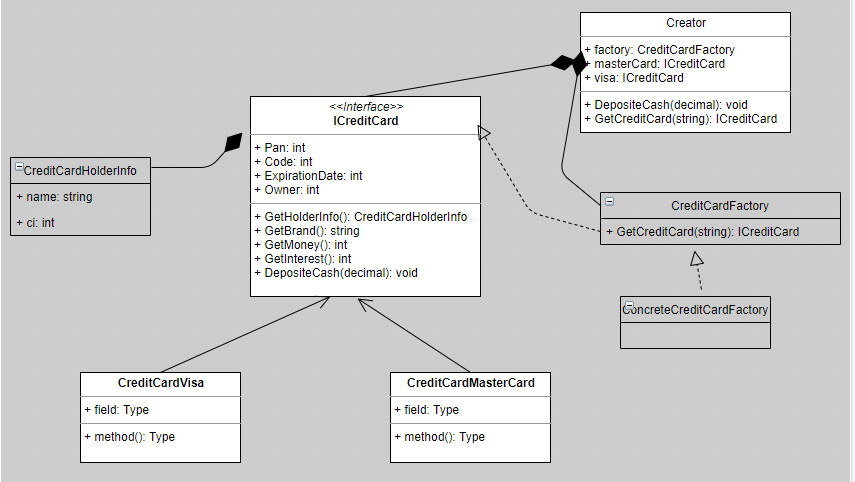
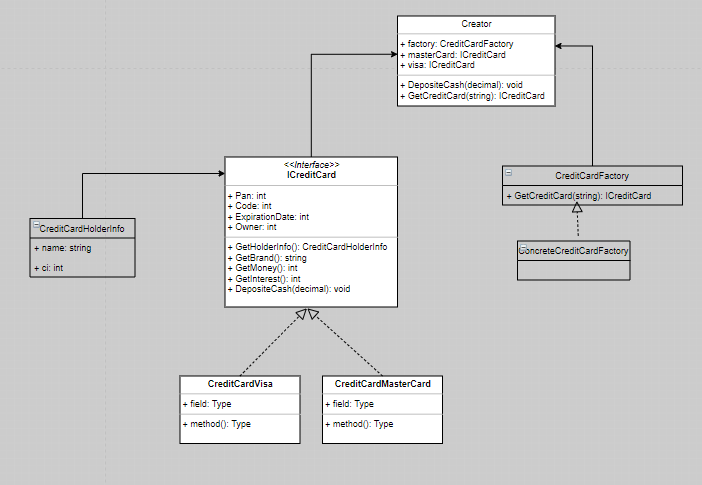
arreglo diagramas y enums

diff --git a/CreditCards/CreditCardMasterCard.cs b/CreditCards/CreditCardMasterCard.cs
@@ -1,6 +1,7 @@
 using System;
 using System.Collections.Generic;
 using System.Text;
+using static CreationalDessignPattern.CreditCards.ICreditCard;
 
 namespace CreationalDessignPattern.CreditCards
 {
@@ -10,7 +11,7 @@ namespace CreationalDessignPattern.CreditCards
         private int _pan;
         private int _code;
         private DateTime _expirationDate;
-        private const string brand = "Visa";
+        private Brand _brand = Brand.Mastercard;
         private decimal _actualMoney;
 
         public CreditCardMasterCard(decimal actualMoney = 0)
@@ -44,7 +45,7 @@ namespace CreationalDessignPattern.CreditCards
         }
         public string GetBrand()
         {
-            return $"The brand is {brand}, Thank You!.";
+            return $"The brand is {_brand}, Thank You!.";
         }
 
         public CreditCardHolderInfo GetHolderInfo()

diff --git a/CreditCards/CreditCardVisa.cs b/CreditCards/CreditCardVisa.cs
@@ -1,6 +1,7 @@
 using System;
 using System.Collections.Generic;
 using System.Text;
+using static CreationalDessignPattern.CreditCards.ICreditCard;
 
 namespace CreationalDessignPattern.CreditCards
 {
@@ -10,7 +11,7 @@ namespace CreationalDessignPattern.CreditCards
         private int _pan;
         private int _code;
         private DateTime _expirationDate;
-        private const string brand = "Master Card";
+        private  Brand _brand = Brand.Visa;
         private decimal _actualMoney;
 
         public CreditCardVisa(decimal actualMoney=0)
@@ -44,7 +45,7 @@ namespace CreationalDessignPattern.CreditCards
         }
         public string GetBrand()
         {
-            return $"The brand of this card is {brand}.";
+            return $"The brand of this card is {_brand}.";
         }
 
         public CreditCardHolderInfo GetHolderInfo()

diff --git a/CreditCards/ICreditCard.cs b/CreditCards/ICreditCard.cs
@@ -10,6 +10,7 @@ namespace CreationalDessignPattern.CreditCards
         public int Code { get; set; }
         public DateTime ExpirationDate { get; set; }
         public string Owner { get; set; }
+        public enum Brand { Mastercard, Visa};
         CreditCardHolderInfo GetHolderInfo();
         string GetBrand();
         void DepositeCash(decimal amount);

diff --git a/Factory/ConcreteCreditCardFactory.cs b/Factory/ConcreteCreditCardFactory.cs
@@ -5,7 +5,7 @@ using System.Text;
 
 namespace CreationalDessignPattern.Factory
 {
-    public class ConcreteCreditCardFactory:CreditCardFactory
+    public class ConcreteCreditCardFactory :CreditCardFactory
     {
         public override ICreditCard GetCreditCard(string CreditCard)
         {
